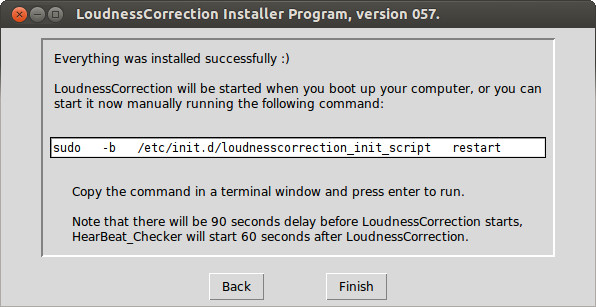
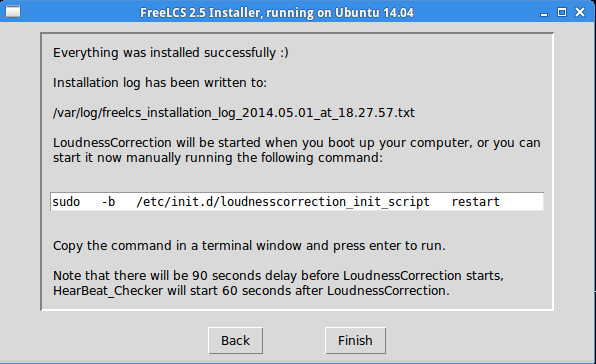
Documentation -------------- - Changed all references from FFmpeg to libav. Added a section in the FAQ explaining the confusing situation of the FFmpeg / libav - fork.

diff --git a/Documentation/FreeLCS_FAQ.html b/Documentation/FreeLCS_FAQ.html
@@ -19,7 +19,10 @@
     <a href="#What%20filetypes%20are%20supported%20?"></a><a href="#What%20formats%20are%20supported%20?">What
       formats are supported ?</a><br>
     <br>
-    <a href="#FFmpeg%20and%20patents">FFmpeg and patents</a><br>
+    <a href="#Libav-tools_vs_FFmpeg">Libav-tools vs. FFmpeg</a><br>
+    <br>
+    <a href="FreeLCS_FAQ.html#Libav-tools%20/%20FFmpeg%20and%20patents">Libav-tools
+      / FFmpeg and patents</a><br>
     <br>
     <a href="#How%20many%20audio%20streams%20in%20a%20file%20are%20supported%20?">How
       many audio streams in a file are supported ?</a><br>
@@ -99,9 +102,9 @@
         are used to process audio files ?</a></h2>
     <ul>
       <li>Natively supported formats are <strong>wav</strong>, <strong>flac</strong>
-        and <strong>ogg</strong>. If <strong>FFmpeg</strong> is installed then
-        it's used to extract and convert audio from unsupported formats to wav
-        and flac.<br>
+        and <strong>ogg</strong>. If <strong>libav-tools</strong> is installed
+        then it's used to extract and convert audio from unsupported formats to
+        wav and flac.<br>
       </li>
       <li><strong>Mediainfo</strong> gets duration info from mpeg transport
         stream files.<br>
@@ -119,22 +122,60 @@
     <ul>
       <li><strong>Wav</strong>, <strong>flac</strong> and <strong>ogg</strong>
         are natively supported.</li>
-      <li>If FFmpeg is installed then it is used to convert other formats to
-        supported formats before processing. FFmpeg supports a large number of
-        formats: <strong>mp4</strong>, <strong>mp3</strong>, <strong>mp2</strong>,
+      <li>If libav-tools is installed then it is used to convert other formats
+        to supported formats before processing. Libav-tools supports a large
+        number of formats: <strong>mp4</strong>, <strong>mp3</strong>, <strong>mp2</strong>,
         <strong>avi</strong>, <strong>mov</strong>, <strong>aac</strong>, <strong>h264</strong>,
-        <strong>vob</strong>, <strong>mkv</strong> to name a few. FFmpeg is
-        able to extract all audio streams from supported file types including
+        <strong>vob</strong>, <strong>mkv</strong> to name a few. libav-tools
+        is able to extract all audio streams from supported file types including
         video files. <br>
       </li>
       <li>Note that all channels of one mix must be in the same file. If your
         5.1 mix consists of 6 files, then you must combine them before dropping
-        the mix into loudness correction.<br>
-      </li>
+        the mix into loudness correction.</li>
     </ul>
     <p><br>
     </p>
-    <h2><a id="FFmpeg and patents">FFmpeg and patents</a><br>
+    <h2><a id="Libav-tools_vs_FFmpeg">Libav-tools vs. FFmpeg</a></h2>
+    <ul>
+      <li>On 2011 a group of FFmpeg developers decided to take FFmpeg's source
+        code and start a new project with it. The reason for this "fork" was the
+        group was unhappy with the way the main FFmpeg developer managed the
+        project. The group named the new project Libav and renamed the video
+        and&nbsp; audio conversion program from <strong>ffmpeg</strong> to <strong>avconv</strong>.
+        This "fork" created a new project that continued development of the
+        FFmpeg source code base parallel to the FFmpeg - project. Both projects
+        have slowly evolved their own way creating a puzzling situation for the
+        users. Tools that both projects develop (FFmpeg and avconv) are quite
+        similar by features, but there are differences in capabilites and usage
+        here and there.</li>
+      <li>Ubuntu and Debian no longer make FFmpeg available in their package
+        repositories, only libav is available for easy installation. This
+        decision was influenced by the Debian / Ubuntu maintainer. He probably
+        had a strong view about the issue, because he himself was part of the
+        group that forked FFmpeg to start the libav - project.</li>
+      <li>FreeLCS 2.5 uses libav by default. Not because I think that libav is
+        better than FFmpeg, but because libav is easily available to Debian and
+        Ubuntu users and FFmpeg is not. I quite strongly disagree with the way
+        the group that created the libav fork handled the situation. They tried
+        to hijack FFmpeg website, stated that they are the successor of the
+        FFmpeg project (they are not) and influenced Debian and Ubuntu not to
+        include FFmpeg in their package repositories anymore, thus removing
+        freedom of choice from the user. In the open source world it is quite ok
+        to fork a project and developed it to a new direction. But you must earn
+        your reputation by making a superior product. When you have something
+        good to offer then people will start to use it. It seems to me that the
+        libav - group tried to hijack users of the FFmpeg - project, and that is
+        not acceptable.</li>
+      <li>FreeLCS searches for both the ffmpeg and avconv executables and if
+        both are found in the path, then avconv is used to process files. If
+        only ffmpeg is found, then it is used.</li>
+      <li>More on the FFmpeg vs. libav situation can be read <a href="http://blog.pkh.me/p/13-the-ffmpeg-libav-situation.html">here</a>.</li>
+    </ul>
+    <p><br>
+    </p>
+    <h2><a id="Libav-tools / FFmpeg and patents">Libav-tools / FFmpeg and
+        patents</a><br>
     </h2>
     <ul>
       <li>Most audio post production is done in <strong>Wav</strong> format
@@ -144,18 +185,18 @@
         FreeLCS supports wav and two royalty / patent free formats <strong>flac</strong>
         and <strong>ogg </strong>(license: <a href="http://flac.sourceforge.net/license.html">http://flac.sourceforge.net/license.html</a>).
         If your post production is done in wav then you don't ever need to
-        install FFmpeg.</li>
-      <li>FFmpeg is a video and audio conversion tool that can be used to
-        convert media to many different formats. Using FFmpeg to decompress
+        install libav-tools.</li>
+      <li>Libav-tools is a video and audio conversion tool that can be used to
+        convert media to many different formats. Using libav-tools to decompress
         audio from patented formats may require a license from the rights
-        holders. However FFmpeg may also be used to process free formats (MXF,
-        MKV, WebM and others) or formats with possibly expired patents (Mpeg1
-        Layer1, Mpeg 1 Layer2) without aquiring licenses (source: <a href="http://en.wikipedia.org/wiki/MPEG-1#Patents">https://en.wikipedia.org/wiki/MPEG-1#Patents</a>).
+        holders. However libav-tools may also be used to process free formats
+        (MXF, MKV, WebM and others) or formats with possibly expired patents
+        (Mpeg1 Layer1, Mpeg 1 Layer2) without aquiring licenses (source: <a href="http://en.wikipedia.org/wiki/MPEG-1#Patents">https://en.wikipedia.org/wiki/MPEG-1#Patents</a>).
         To more complicate things some patented formats may be patented in some
         countries but not in others. Also the expiration dates for these patents
         may vary between countries.</li>
-      <li>FreeLCS uses FFmpeg if it's installed but works fine without it with
-        wav, flac and ogg formats.<br>
+      <li>FreeLCS uses libav-tools if it's installed but works fine without it
+        with wav, flac and ogg formats.<br>
       </li>
     </ul>
     <p><br>
@@ -163,12 +204,12 @@
     <h2> <a id="How many audio streams in a file are supported ?">How many
         audio streams in a file are supported ?</a></h2>
     <ul>
-      <li>When FFmpeg is not installed: 1 audio stream.<br>
+      <li>When libav-tools is not installed: 1 audio stream.<br>
       </li>
-      <li>When FFmpeg is installed: the limit for the number of audio streams in
-        a single file has not been tested. I personally have tested files with
-        16 streams with no problems. Upper limit is propably set by a possible
-        limit in FFmpeg or file format in question.<br>
+      <li>When libav-tools is installed: the limit for the number of audio
+        streams in a single file has not been tested. I personally have tested
+        files with 16 streams with no problems. Upper limit is propably set by a
+        possible limit in libav-tools or file format in question.<br>
       </li>
     </ul>
     <br>
@@ -204,12 +245,13 @@
       <li>First incoming files are searched for supported audio streams.</li>
       <li>FreeLCS natively supports wav, flac and ogg formats and one audio
         stream per file. If there are more streams or the audio format is
-        unsupported then FFmpeg is used (only if FFmpeg is installed) to convert
-        streams to a supported format.<br>
+        unsupported then libav-tools is used (only if libav-tools is installed)
+        to convert streams to a supported format.<br>
       </li>
-      <li>FFmpeg places extracted streams back to FreeLCS HotFolder so that they
-        are seen as new files coming into processing. When all streams have been
-        extracted then the original file is deleted as it is no longer needed.<br>
+      <li>Libav-tools places extracted streams back to FreeLCS HotFolder so that
+        they are seen as new files coming into processing. When all streams have
+        been extracted then the original file is deleted as it is no longer
+        needed.<br>
       </li>
       <li>Then two simultaneous loudness calculation processes are started for
         the file. One measures integrated loudness and the other momentary
@@ -302,9 +344,9 @@
     Sample rate should be preserved in all cases. <br>
     <br>
     The following rules for bit depth conversion comes from internal limitations
-    in sox and FFmpeg.<br>
+    in sox and libav-tools.<br>
     <br>
-    <u><strong>When FFmpeg is not installed:</strong></u><br>
+    <u><strong>When </strong></u><u><strong>libav-tools is not installed:</strong></u><br>
     <ul>
       <li>64 bit audio is not supported.</li>
       <li>If audio is in uncompressed PCM - format, then bit depth will be
@@ -318,7 +360,7 @@
         bits.<br>
       </li>
     </ul>
-    <u><strong>When FFmpeg is installed:</strong></u><br>
+    <u><strong>When </strong></u><u><strong>libav-tools is installed:</strong></u><br>
     <ul>
       <li>If audio is in uncompressed PCM - format, then bit depth will be
         preserved except that 64 bit audio will be converted to 32 bits because
@@ -328,12 +370,13 @@
       <li>If output file size exceeds 4 GBs then FreeLCS must store the audio in
         flac format when processing it. Bit depths bigger than 16 will be
         converted to 16 bits on <strong>Ubuntu 12.04</strong> and <strong>Debian
-          7</strong>. This is caused by an internal limitation in FFmpeg version
-        distributed with Ubuntu 12.04 and Debian 7, it always uses 16 bits when
-        storing in flac format. Ubuntu 14.04 replaced FFmpeg with Libav that is
-        able to store 24 bit flac files. Bit depths bigger than 24 will be
-        converted to 24 bits. 8 bit audio will be converted to 16 bits on all
-        supported platforms if output file size exceeds 4 GB.</li>
+          7</strong>. This is caused by an internal limitation in libav-tools
+        version distributed with Ubuntu 12.04 and Debian 7, it always uses 16
+        bits when storing in flac format. Ubuntu 14.04 ships with a new version
+        of libav-tools that is able to store 24 bit flac files. Bit depths
+        bigger than 24 will be converted to 24 bits. 8 bit audio will be
+        converted to 16 bits on all supported platforms if output file size
+        exceeds 4 GB.</li>
     </ul>
     <u><strong></strong></u><br>
     <h2><a id="What happens if output file size exceeds wav format 4 GB size limit ?">What
@@ -363,7 +406,7 @@
     <br>
     <h2><a id="Is MXF supported ?">Is MXF supported ?</a></h2>
     <ul>
-      <li>FFmpeg seems to have some support for MXF and I've been able to
+      <li>Libav-tools seems to have some support for MXF and I've been able to
         extract audio from MXF with it. However as all channels of a mix must be
         in one file this might be impractical. If the audio inside MXF is stored
         as separate channels, then the user must combine them to a single file

diff --git a/Documentation/FreeLCS_User_Manual.html b/Documentation/FreeLCS_User_Manual.html
@@ -86,8 +86,8 @@
     Sata disks in software RAID 0. <br>
     <br>
     FreeLCS uses other open source programs to get the job done (Linux,
-    libebur128, gnuplot, FFmpeg (optional), sox, mediainfo). All software is
-    free and Open Source.<br>
+    libebur128, gnuplot, libav-tools (optional), sox, mediainfo). All software
+    is free and Open Source.<br>
     <br>
     <br>
     <h2> <a id="Features">Features</a></h2>
@@ -100,13 +100,13 @@
       <li>Natively supports <strong>wav</strong>, <strong>flac</strong> and <strong>ogg</strong>
         formats.<br>
       </li>
-      <li>If user installs FFmpeg, then all formats supported by it can be
-        processed. FFmpeg supports a large number of formats.<br>
+      <li>If user installs libav-tools, then all formats supported by it can be
+        processed. libav-tools supports a large number of formats.<br>
       </li>
       <li> Supports files with several audio streams. Each stream is demuxed to
         a separate file and loudness corrected.</li>
       <li>Even video files can be dropped in for processing. Audio streams are
-        demuxed from the file and processed (requires FFmpeg).<br>
+        demuxed from the file and processed (requires libav-tools).<br>
       </li>
       <li> Supports channel counts from mono to 5.1.</li>
       <li> Takes advantage of multiple processor cores to run calculations
@@ -450,9 +450,9 @@
         dBFS and cause distortion when the digital signal is converted back to
         analog. TruePeak measurement calculates new samples in between existing
         audio samples and finds these hidden peaks. EBU R128 recoommends always
-        using TruePeak&nbsp; method to measure audio peaks. TruePeak calculation
-        is about four time slower than finding the highest existing audio sample
-        in a file.<br>
+        using TruePeak method to measure audio peaks. TruePeak calculation is
+        about four time slower than finding the highest existing audio sample in
+        a file.<br>
       </li>
       <li>FreeLCS uses peak limiting in cases where loudness is below -23 LUFS
         and peaks are so high that distortion would be introduced when file
@@ -540,7 +540,7 @@
     <p><br>
     </p>
     <ul>
-      <li>The next window shows how you can install FFmpeg if you need it.</li>
+      <li>The next window shows how you can install libav-tools if you need it.</li>
     </ul>
     <p><br>
     </p>

diff --git a/Documentation/index.html b/Documentation/index.html
@@ -31,8 +31,8 @@
     Sata disks in software RAID 0. <br>
     <br>
     FreeLCS uses other open source programs to get the job done (Linux,
-    libebur128, gnuplot, FFmpeg (optional), sox, mediainfo). All software is
-    free and Open Source.<br>
+    libebur128, gnuplot, libav (optional), sox, mediainfo). All software is free
+    and Open Source.<br>
     <br>
     More detailed information can be found in the <a href="FreeLCS_FAQ.html">FAQ</a>
     and <a href="FreeLCS_User_Manual.html">User Manual</a>.<br>
@@ -107,8 +107,8 @@
         visual feedback of the loudness variations in the file.</li>
       <li>Creates loudness corrected versions of each file dropped in the
         servers HotFolder.</li>
-      <li>Uses FFmpeg to pre-process files and supports the huge number of file
-        formats FFmpeg supports.<br>
+      <li>Uses libav to pre-process files and supports the huge number of file
+        formats libav supports.<br>
       </li>
       <li> Supports files with several audio streams. Each stream is demuxed to
         a separate file and loudness corrected.</li>

diff --git a/installer.py b/installer.py
@@ -26,7 +26,7 @@ import email.mime.text
 import email.mime.multipart
 import tempfile
 
-version = '084'
+version = '085'
 freelcs_version = '2.5'
 
 ###################################
@@ -1830,12 +1830,9 @@ def install_init_scripts_and_config_files(*args):
 	###############################################################################################################
 	# Write settings that user defined during the installation to /var/log/freelcs_date_time_installation_log.txt #
 	###############################################################################################################
+	global installation_logfile_path
+	global installation_logfile_name
 
-	# Define logfile name
-	current_time = time.time()
-	installation_logfile_name = 'freelcs_installation_log_' + str(parse_time(current_time)).replace(' ','_').replace(':','.') + '.txt'
-	installation_logfile_path = '/var/log'
-	
 	try:
 		with open(directory_for_os_temporary_files + os.sep + installation_logfile_name, 'wt') as installation_logfile_handler:
 			installation_logfile_handler.write('\n'.join(user_defined_configuration_options))
@@ -5127,6 +5124,10 @@ all_ip_addresses_of_the_machine = get_ip_addresses_of_the_host_machine()
 peak_measurement_method = '--peak=true'
 installation_is_running = False
 libebur128_repository_url = "http://github.com/mhartzel/libebur128_fork_for_freelcs_2.4.git"
+# Define logfile name
+current_time = time.time()
+installation_logfile_name = 'freelcs_installation_log_' + str(parse_time(current_time)).replace(' ','_').replace(':','.') + '.txt'
+installation_logfile_path = '/var/log'
 
 # Get the directory the os uses for storing temporary files.
 directory_for_os_temporary_files = tempfile.gettempdir()
@@ -6317,7 +6318,7 @@ row_counter = -1
 
 # Some explanatory texts.
 row_counter = row_counter + 1
-eleventh_window_label_1 = tkinter.ttk.Label(eleventh_frame_child_frame_1, wraplength=int(text_wrap_length_in_pixels * 1.7), text='When you store a program in a MXF wrapper, then audio mixes are usually split up and saved as separate mono files. For a program with stereo and 5.1 mix, eight separate audio files are stored in the MXF. This complicates things when you want to measure loudness of those mixes, audio files needs to be combined back to full mixes before this is possible.\n\nThis FreeLCS feature allows you to enable remixing audio inside a MXF file back to original mixes before loudness measurement.\n\nThe boxes below allow you to define a default "MXF Remix Map" that is used if no other information about the mixes is available. The numbers above the boxes correspond to the mix number that you want to create and the boxes below lets you define how many input audio channels are combined to form the mix. You can have more mixes defined than you have physical audio files available, since only mixes that have all needed channels available will be created. It is also possible to create file specific remix maps, see the user manual for more information about it.\n\nNote that you need to install FFmpeg for this feature to work.\n')
+eleventh_window_label_1 = tkinter.ttk.Label(eleventh_frame_child_frame_1, wraplength=int(text_wrap_length_in_pixels * 1.7), text='When you store a program in a MXF wrapper, then audio mixes are usually split up and saved as separate mono files. For a program with stereo and 5.1 mix, eight separate audio files are stored in the MXF. This complicates things when you want to measure loudness of those mixes, audio files needs to be combined back to full mixes before this is possible.\n\nThis FreeLCS feature allows you to enable remixing audio inside a MXF file back to original mixes before loudness measurement.\n\nThe boxes below allow you to define a default "MXF Remix Map" that is used if no other information about the mixes is available. The numbers above the boxes correspond to the mix number that you want to create and the boxes below lets you define how many input audio channels are combined to form the mix. You can have more mixes defined than you have physical audio files available, since only mixes that have all needed channels available will be created. It is also possible to create file specific remix maps, see the user manual for more information about it.\n\nNote that you need to install libav-tools for this feature to work.\n')
 eleventh_window_label_1.grid(column=0, row=row_counter, pady=10, padx=10, columnspan=16, sticky=(tkinter.W, tkinter.N))
 
 row_counter = row_counter + 1
@@ -6856,11 +6857,11 @@ eleventh_window_separator_1.grid(column=0, row=row_counter, padx=10, pady=10, co
 
 # Some explanatory texts.
 row_counter = row_counter + 1
-eleventh_window_label_3 = tkinter.ttk.Label(eleventh_frame_child_frame_1, wraplength=int(text_wrap_length_in_pixels * 1.7), text="If you decide to install FFmpeg, then you can define here what wrapper and codec formats you allow it to process. You can allow FFmpeg to process all formats it supports or you can limit processing to royalty / patent free formats (Please see FAQ about format patents). If you don't install FFmpeg, then these settings won't have any effect.\n\nIf you enabled 'Mxf Remix Map' above, then you need to allow FFmpeg to process MXF here.\n")
+eleventh_window_label_3 = tkinter.ttk.Label(eleventh_frame_child_frame_1, wraplength=int(text_wrap_length_in_pixels * 1.7), text="If you decide to install libav-tools, then you can define here what wrapper and codec formats you allow it to process. You can allow libav-tools to process all formats it supports or you can limit processing to royalty / patent free formats (Please see FAQ about format patents). If you don't install libav-tools, then these settings won't have any effect.\n\nIf you enabled 'Mxf Remix Map' above, then you need to allow libav-tools to process MXF here.\n")
 eleventh_window_label_3.grid(column=0, row=row_counter, pady=10, padx=10, columnspan=16, sticky=(tkinter.W, tkinter.N))
 
 row_counter = row_counter + 1
-eleventh_window_label_5 = tkinter.ttk.Label(eleventh_frame_child_frame_1, text='FFmpeg allowed wrapper formats')
+eleventh_window_label_5 = tkinter.ttk.Label(eleventh_frame_child_frame_1, text='Libav-tools allowed wrapper formats')
 eleventh_window_label_5.grid(column=0, row=row_counter, columnspan=4, padx=10, sticky=(tkinter.W))
 ffmpeg_wrapper_formats_true_radiobutton = tkinter.ttk.Radiobutton(eleventh_frame_child_frame_1, text='All', variable=enable_nonfree_ffmpeg_wrapper_formats, value=True, command=print_ffmpeg_usage_options)
 ffmpeg_wrapper_formats_false_radiobutton = tkinter.ttk.Radiobutton(eleventh_frame_child_frame_1, text='Only Wav, Flac, Ogg, Matroska and wrappers:', variable=enable_nonfree_ffmpeg_wrapper_formats, value=False, command=print_ffmpeg_usage_options)
@@ -6876,7 +6877,7 @@ eleventh_window_webm_enable = tkinter.Checkbutton(eleventh_frame_child_frame_1, 
 eleventh_window_webm_enable.grid(row=row_counter, column=column_counter, pady=5, padx=10, columnspan=2, sticky=(tkinter.W))
 
 row_counter = row_counter + 1
-eleventh_window_label_6 = tkinter.ttk.Label(eleventh_frame_child_frame_1, text='FFmpeg allowed codec formats')
+eleventh_window_label_6 = tkinter.ttk.Label(eleventh_frame_child_frame_1, text='Libav-tools allowed codec formats')
 eleventh_window_label_6.grid(column=0, row=row_counter, columnspan=4, padx=10, sticky=(tkinter.W))
 ffmpeg_codec_formats_true_radiobutton = tkinter.ttk.Radiobutton(eleventh_frame_child_frame_1, text='All', variable=enable_nonfree_ffmpeg_codec_formats, value=True, command=print_ffmpeg_usage_options)
 ffmpeg_codec_formats_false_radiobutton = tkinter.ttk.Radiobutton(eleventh_frame_child_frame_1, text='Only PCM, Flac, Vorbis and codecs:', variable=enable_nonfree_ffmpeg_codec_formats, value=False, command=print_ffmpeg_usage_options)
@@ -7117,7 +7118,7 @@ eigth_window_back_button.grid(column=2, row=1, padx=30, pady=10, sticky=(tkinter
 ###########################################################################################################
 
 # Create the label for the frame
-ninth_window_label_1 = tkinter.ttk.Label(ninth_frame_child_frame_1, wraplength=text_wrap_length_in_pixels, text="Everything was installed successfully :)\n\nLoudnessCorrection will be started when you boot up your computer, or you can start it now manually running the following command:\n")
+ninth_window_label_1 = tkinter.ttk.Label(ninth_frame_child_frame_1, wraplength=text_wrap_length_in_pixels, text="Everything was installed successfully :)\n\nInstallation log has been written to:\n\n" + installation_logfile_path + os.sep + installation_logfile_name + "\n\nLoudnessCorrection will be started when you boot up your computer, or you can start it now manually running the following command:\n")
 ninth_window_label_1.grid(column=0, row=0, columnspan=4, pady=10, padx=10, sticky=(tkinter.N))
 
 loudness_correction_manual_startup_commands = "sudo   -b   /etc/init.d/loudnesscorrection_init_script   restart"
@@ -7136,7 +7137,7 @@ startup_commands_text_widget.focus()
 startup_commands_text_widget.grid(column=0, row=1, columnspan=4, sticky=(tkinter.N, tkinter.S))
 
 ninth_window_label_2 = tkinter.ttk.Label(ninth_frame_child_frame_1, wraplength=text_wrap_length_in_pixels, text="\nCopy the command in a terminal window and press enter to run.\n\nNote that there will be 90 seconds delay before LoudnessCorrection starts, HearBeat_Checker will start 60 seconds after LoudnessCorrection.")
-ninth_window_label_2.grid(column=0, row=2, columnspan=4, pady=10, padx=10, sticky=(tkinter.N))
+ninth_window_label_2.grid(column=0, row=2, columnspan=4, pady=10, padx=10, sticky=(tkinter.N, tkinter.W))
 
 # Create the buttons for the frame
 ninth_window_back_button = tkinter.Button(ninth_frame, text = "Back", command = call_ffmpeg_info_frame_on_top)
@@ -7150,13 +7151,13 @@ ninth_window_finish_button.grid(column=2, row=3, padx=30, pady=10, sticky=(tkint
 ###########################################################################################################
 
 # Create the label for the frame
-ffmpeg_info_window_label_1 = tkinter.ttk.Label(ffmpeg_frame_child_frame_1, wraplength=text_wrap_length_in_pixels, text="Installer no longer automatically installs FFmpeg for you, but you can do it easily yourself by copy / pasting the following command in a terminal window:\n")
+ffmpeg_info_window_label_1 = tkinter.ttk.Label(ffmpeg_frame_child_frame_1, wraplength=text_wrap_length_in_pixels + 10, text="If you want FreeLCS to be able to decompress virtually any audio format, then you need to install libav-tools. You can do it by copy / pasting the following command in a terminal window and executing it:\n")
 ffmpeg_info_window_label_1.grid(column=0, row=0, columnspan=4, pady=10, padx=10, sticky=(tkinter.N))
 
-ffmpeg_manual_installation_command = "sudo apt-get -y install ffmpeg"
+ffmpeg_manual_installation_command = "sudo apt-get -y install libav-tools"
 
 # Create a text widget to display text that can be copy pasted.
-ffmpeg_info_window_text_widget = tkinter.Text(ffmpeg_frame_child_frame_1, width=31, height=1, wrap='none', undo=False)
+ffmpeg_info_window_text_widget = tkinter.Text(ffmpeg_frame_child_frame_1, width=40, height=1, wrap='none', undo=False)
 ffmpeg_info_window_text_widget.insert('1.0', ffmpeg_manual_installation_command)
 ffmpeg_info_window_text_widget.columnconfigure(0, weight=1)
 ffmpeg_info_window_text_widget.rowconfigure(0, weight=1)
@@ -7168,7 +7169,7 @@ ffmpeg_info_window_text_widget.focus()
 
 ffmpeg_info_window_text_widget.grid(column=0, row=1, columnspan=4, sticky=(tkinter.N, tkinter.S))
 
-ffmpeg_info_window_label_2 = tkinter.ttk.Label(ffmpeg_frame_child_frame_1, wraplength=text_wrap_length_in_pixels, text="\nDecompressing patented formats with FFmpeg may require a license from the rights holders. However FFmpeg may also be used to process free formats (MXF, MKV, WebM and others) or formats with possibly expired patents (Mpeg1 Layer1, Mpeg 1 Layer2) without aquiring licenses. (Disclaimer: This is not legal advice, if in doubt ask a lawyer).\n\nFFmpeg is used to process files if it's installed before starting LoudnessCorrection. So you can always install it later and reboot your server to take advantage of FFmpeg.\n\nSupported formats without FFmpeg are: Wav, Flac, Ogg.\n\nThe command to uninstall FFmpeg is: sudo apt-get remove ffmpeg libav-tools")
+ffmpeg_info_window_label_2 = tkinter.ttk.Label(ffmpeg_frame_child_frame_1, wraplength=text_wrap_length_in_pixels + 10, text="\nDecompressing patented formats with libav-tools may require a license from the rights holders. However libav-tools may also be used to process free formats (MXF, MKV, WebM and others) or formats with possibly expired patents (Mpeg1 Layer1, Mpeg 1 Layer2) without aquiring licenses. (Disclaimer: This is not legal advice, if in doubt ask a lawyer).\n\nLibav-tools is used to process files if it's installed before starting LoudnessCorrection. So you can always install it later and reboot your server to take advantage of libav-tools.\n\nSupported formats without libav-tools are: Wav, Flac, Ogg.\n\nThe command to uninstall libav-tools is: sudo apt-get remove libav-tools")
 ffmpeg_info_window_label_2.grid(column=0, row=2, columnspan=4, pady=10, padx=10, sticky=(tkinter.N))
 
 # Create the buttons for the frame
